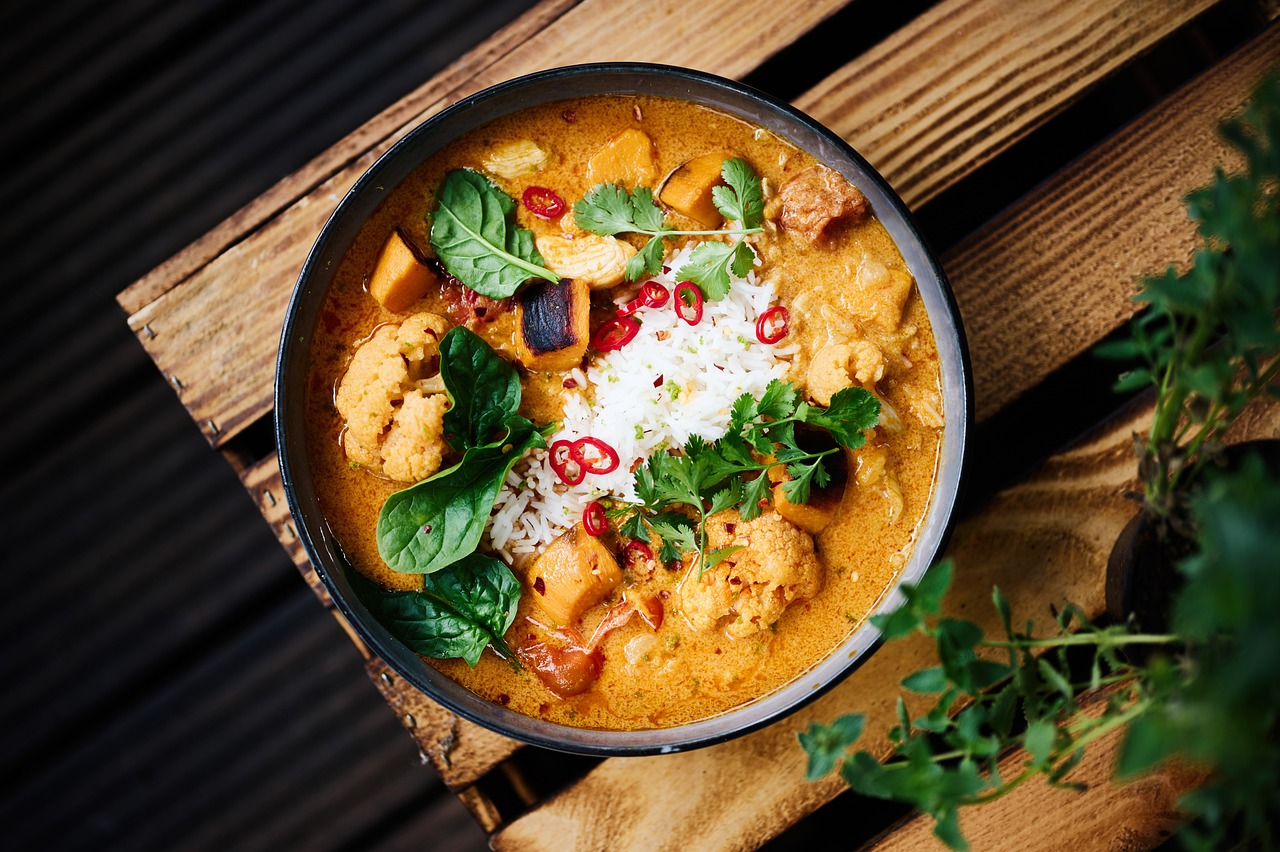
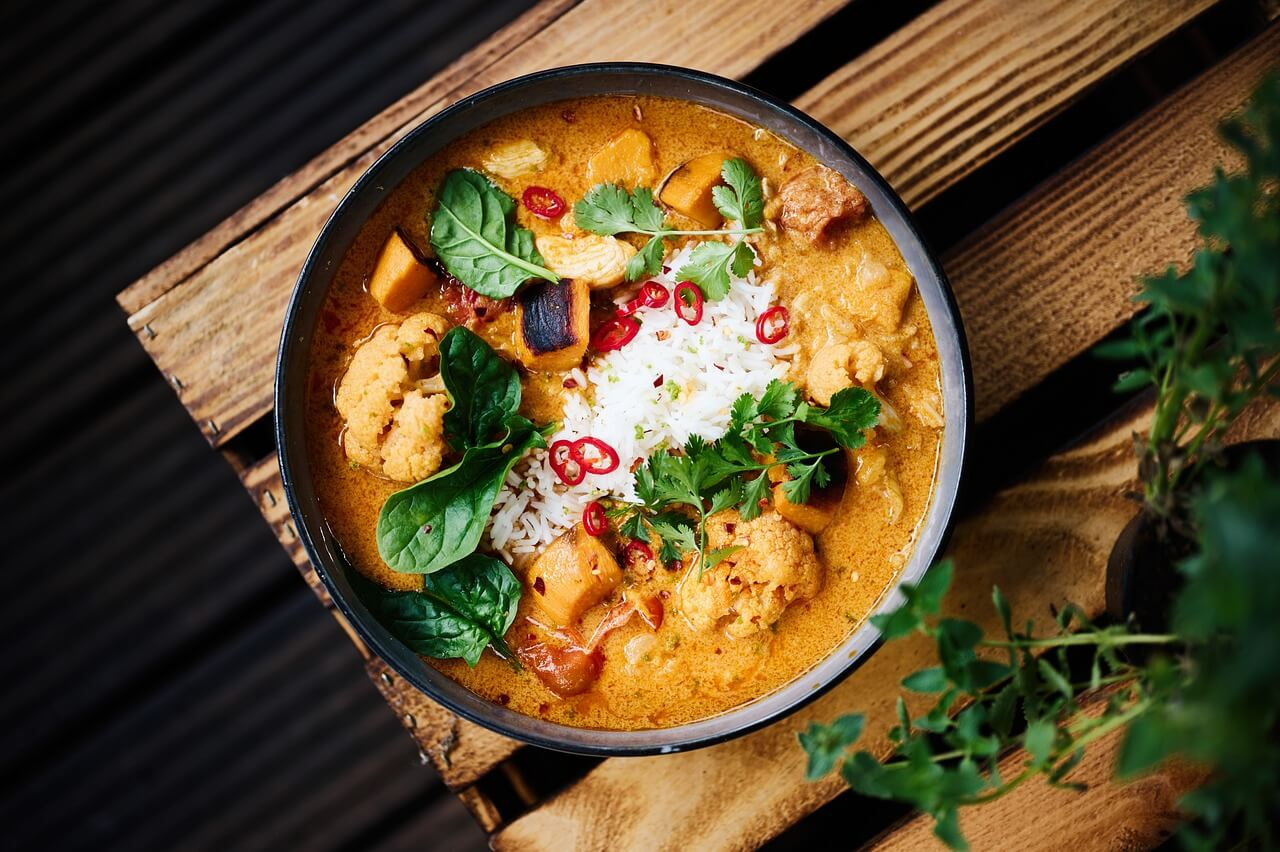
Se comprimen tamaños de las imágenes

diff --git a/index.html b/index.html
@@ -64,7 +64,7 @@
     <main class="container">
         <!-- Portada Principal -->
         <section class="card text-bg-dark border-light">
-            <img src="./img/img2.jpg" class="card-img portada-principal" alt="Portada principal">
+            <img src="./img/portada-principal.jpg" class="card-img portada-principal" alt="Portada principal">
             <div class="card-img-overlay">
                 <h1 class="card-title titulo text-center">INSPIRATE CON ESTAS RECETAS <strong class="bg-azul d-none d-lg-block">Y PLANIFICÁ TU SEMANA</strong></h1>
                 <p class="card-text subtitulo text-center mt-5 d-none d-lg-block">¡Más de 500.000 recetas de cocina te esperan para
